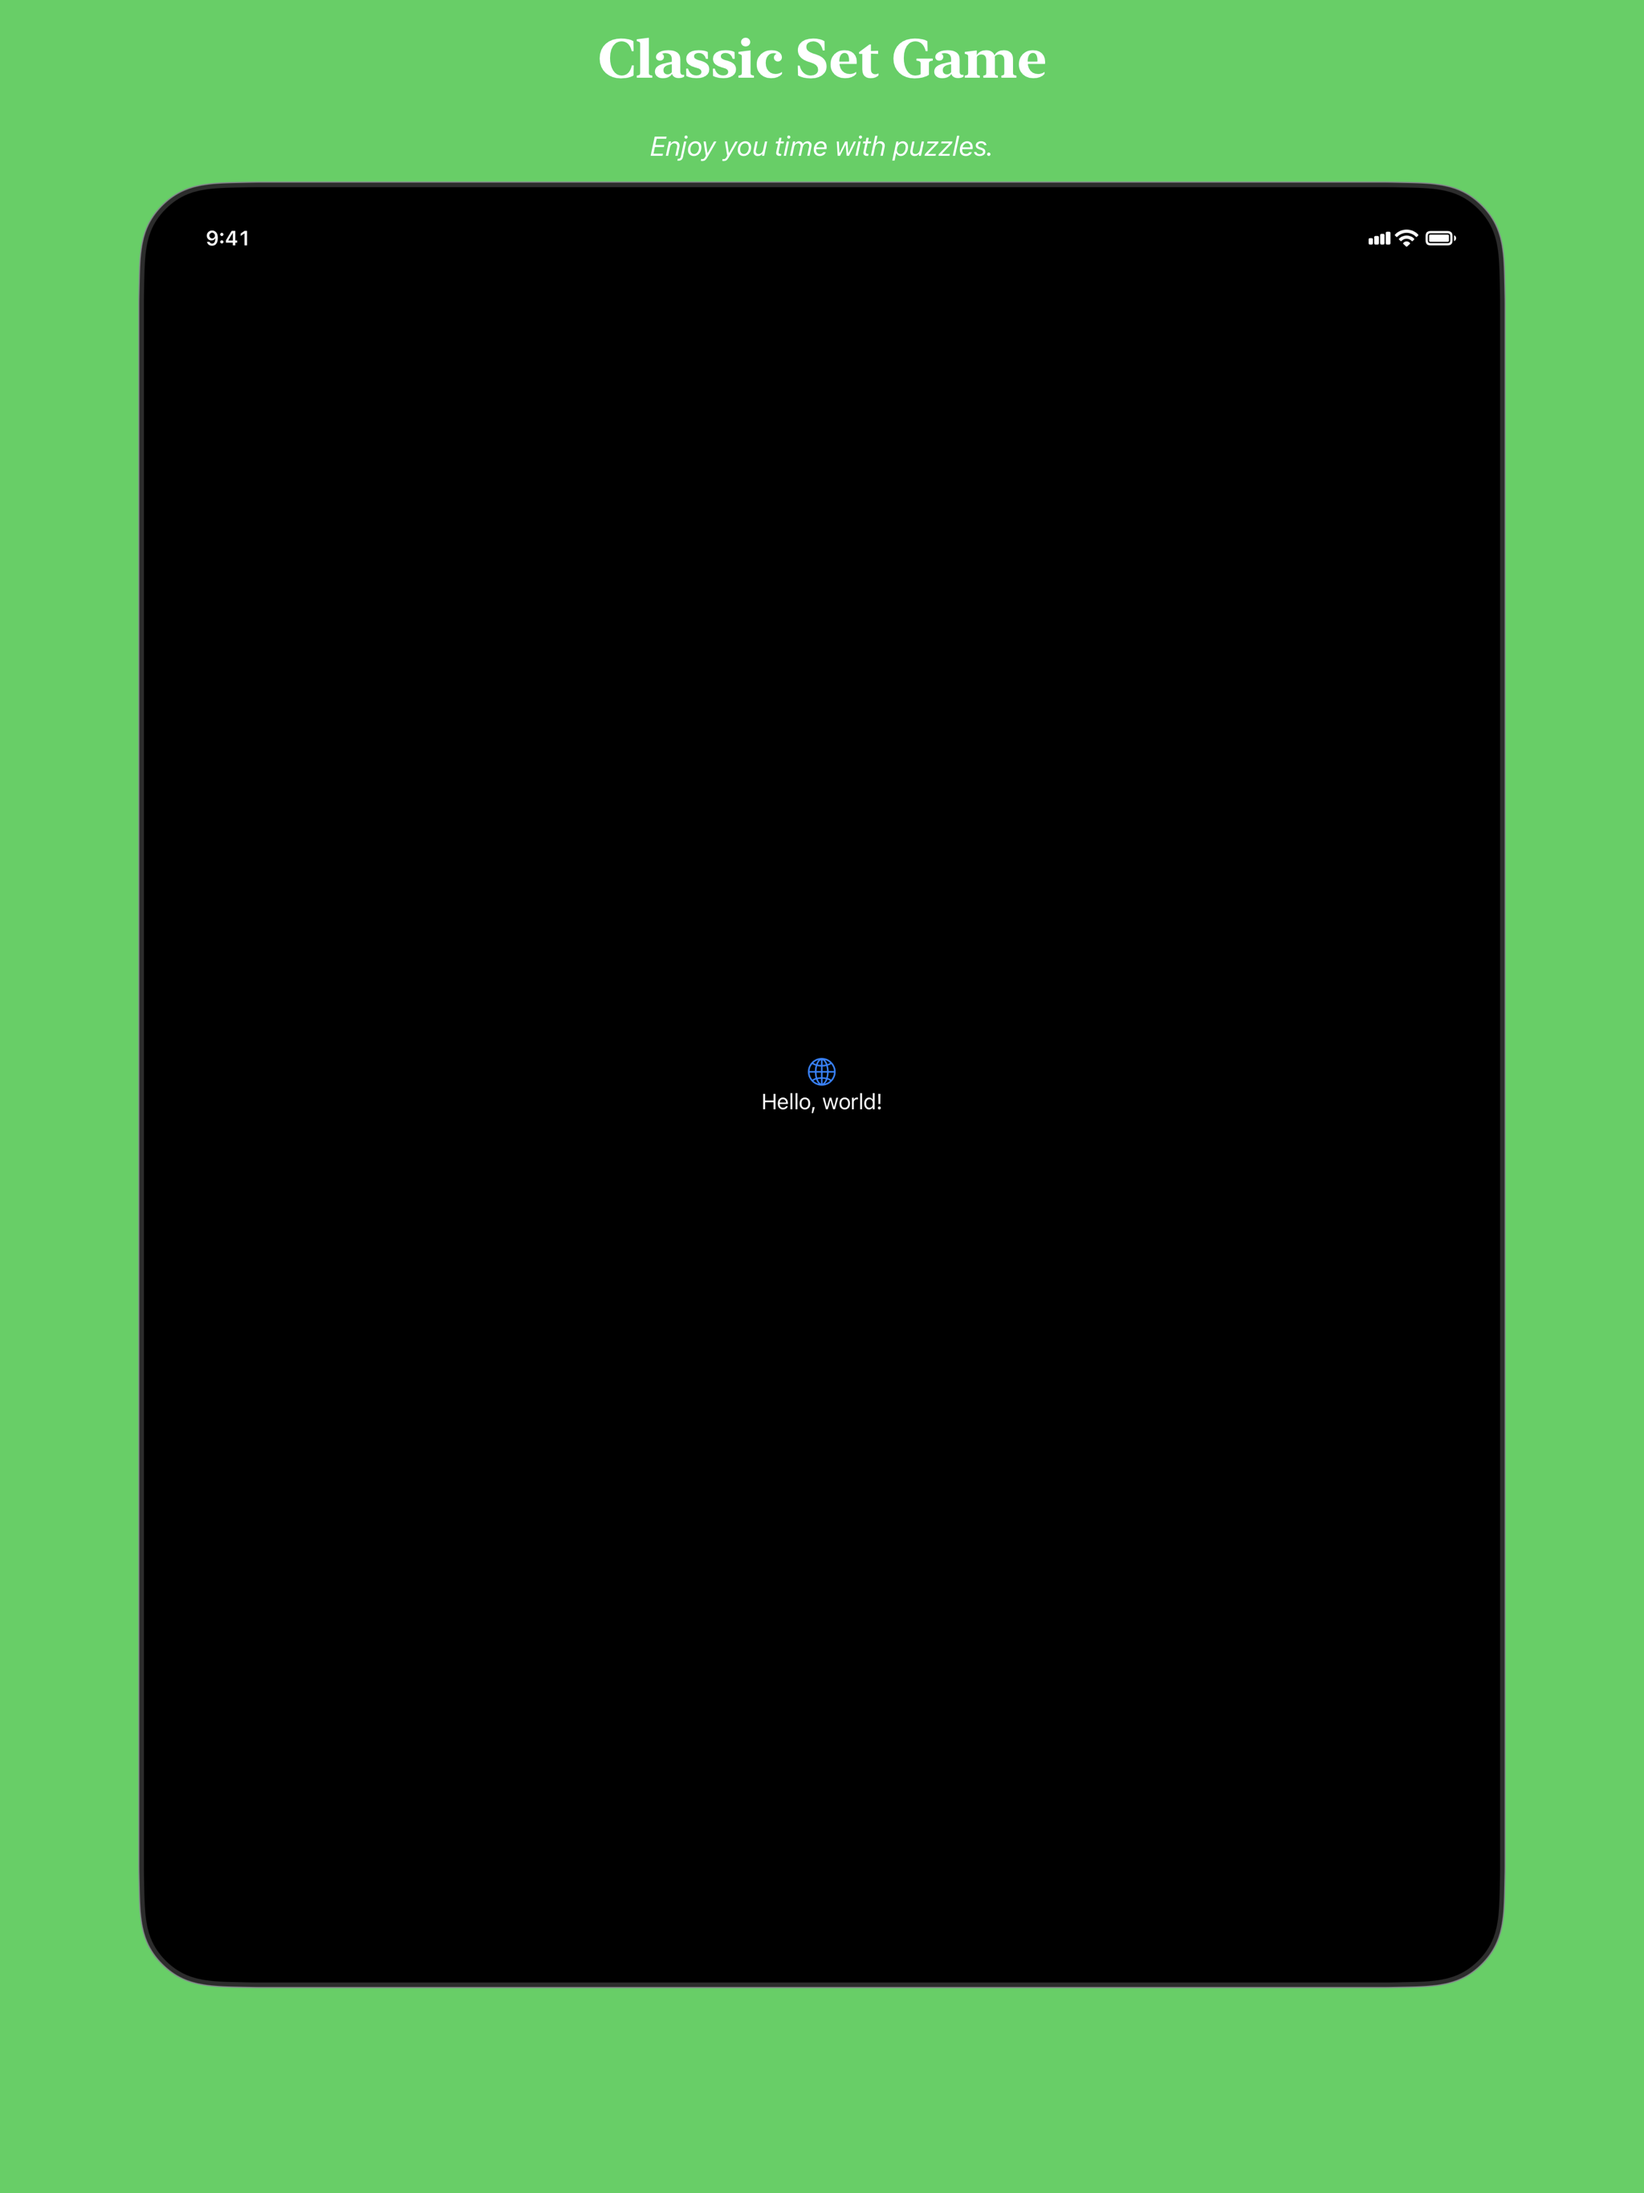
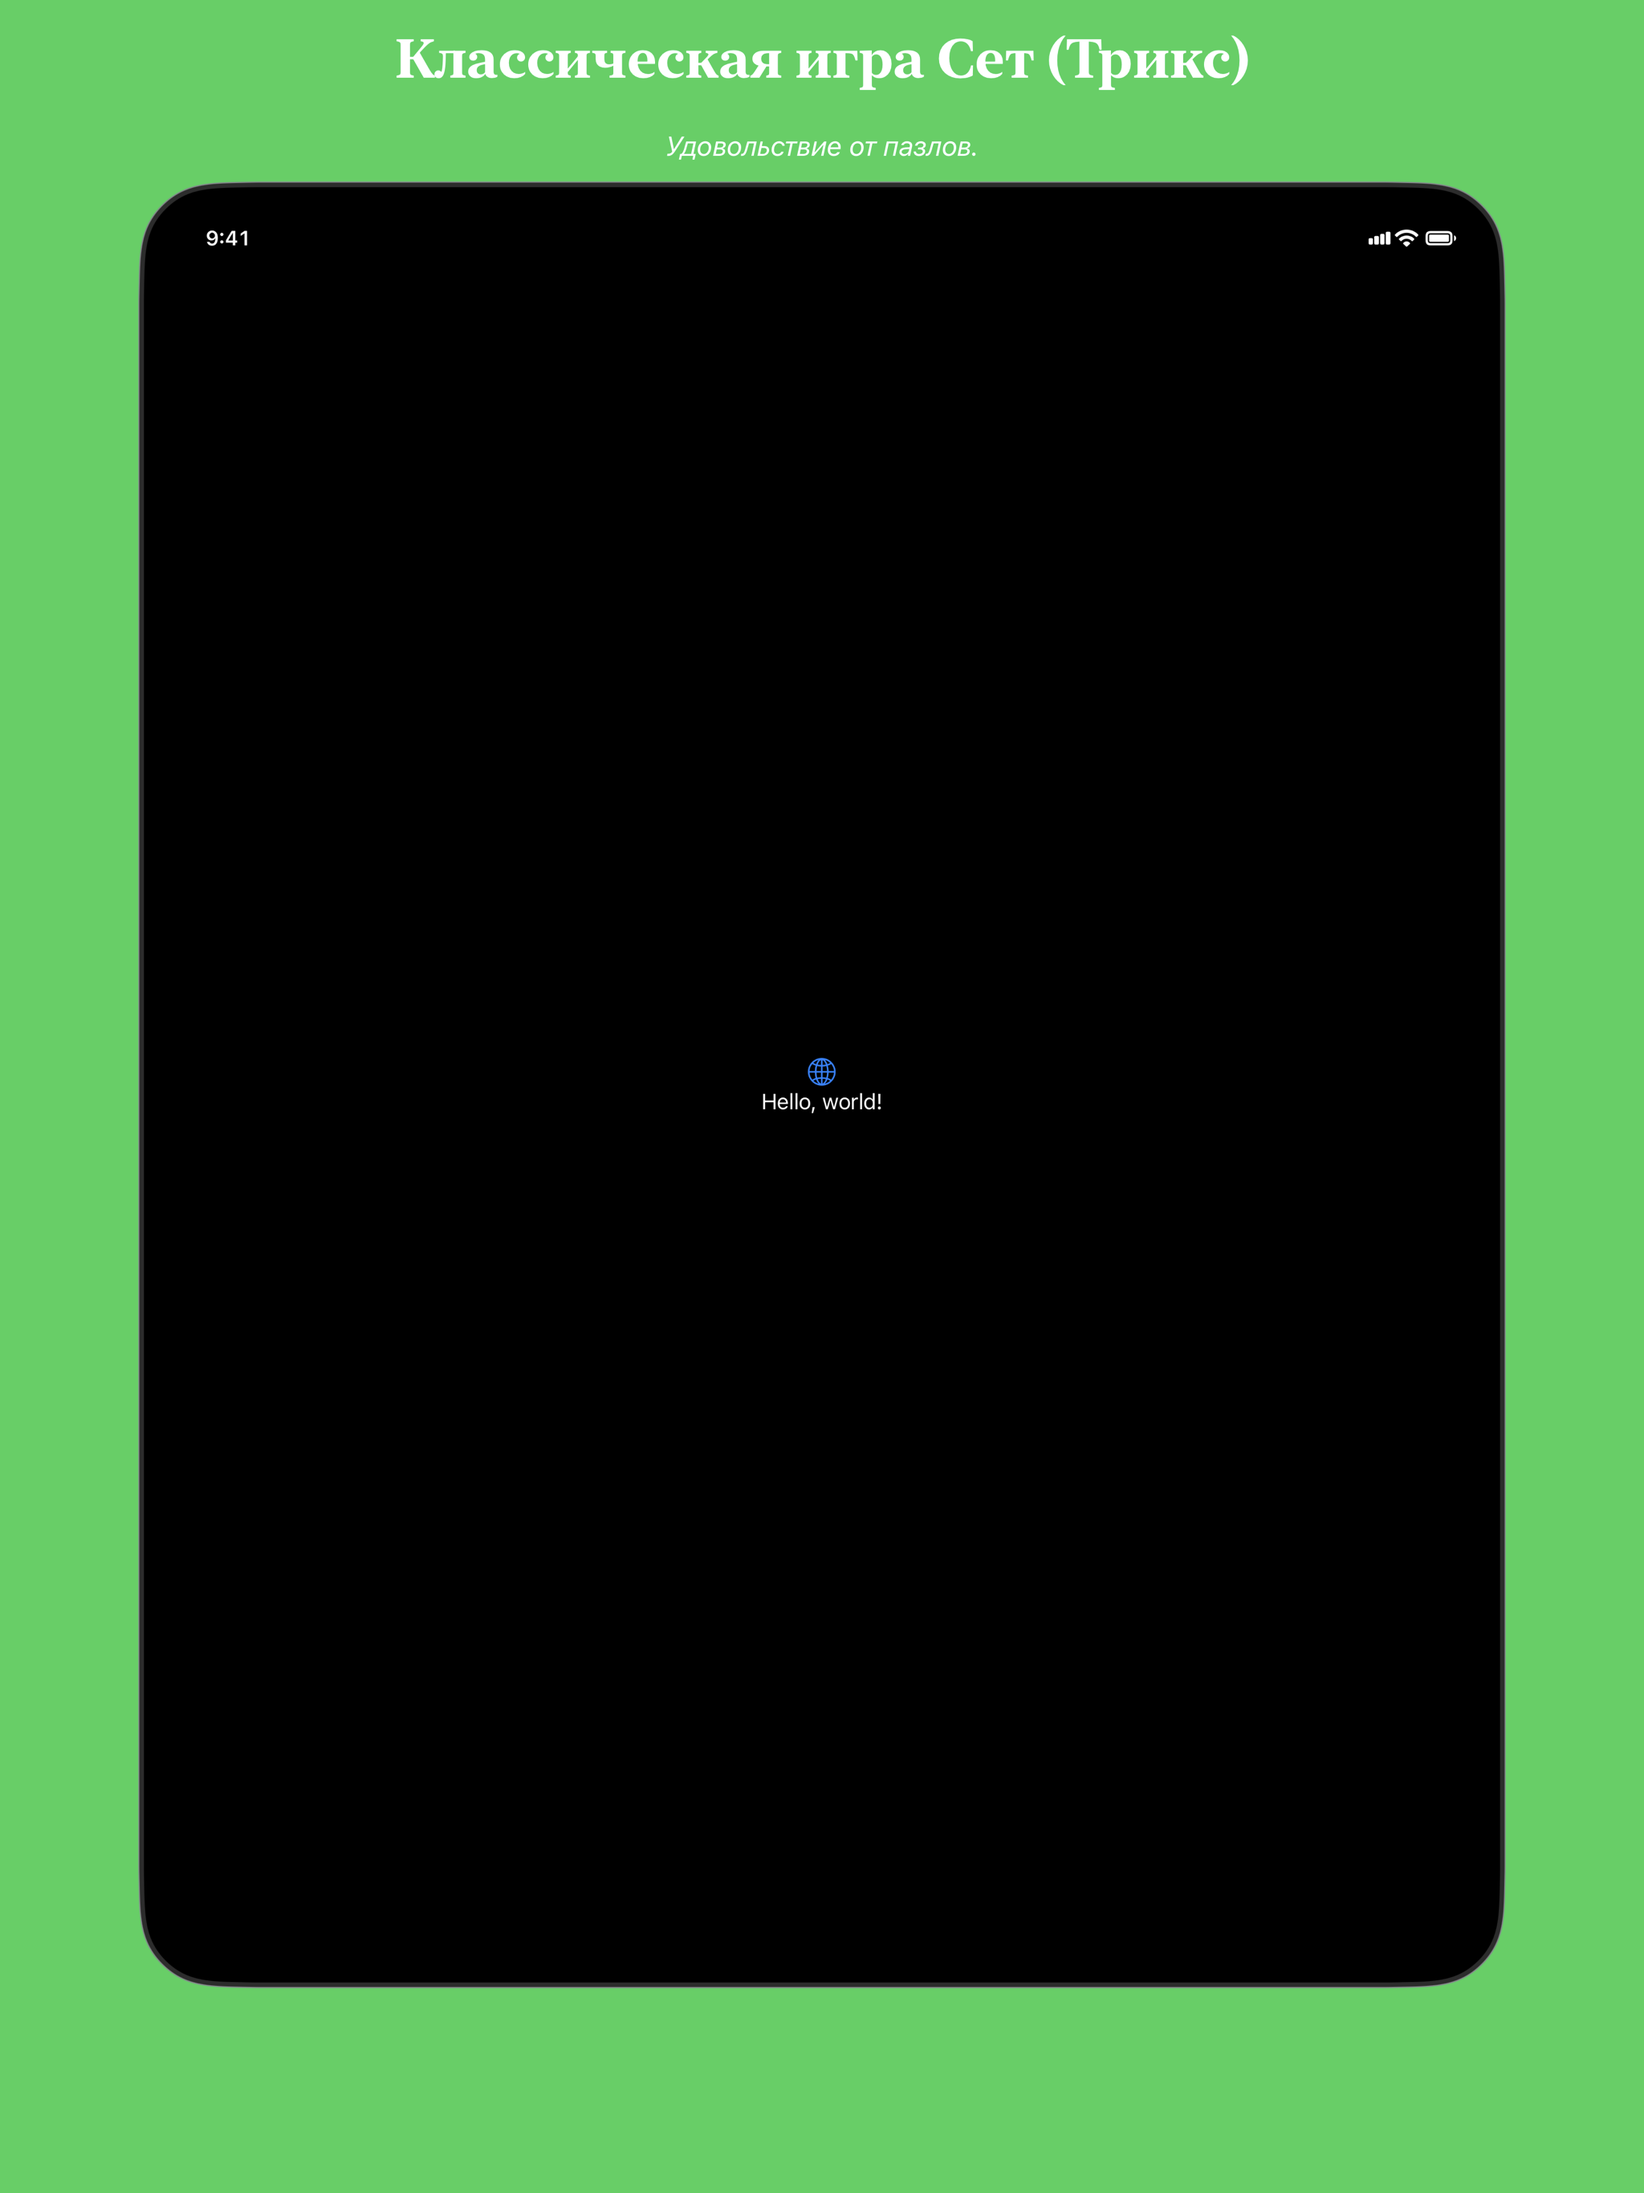
localized screenshots

Changed region(s): [[0.25, 0.0, 0.75, 0.0622], [0.4062, 0.0622, 0.5938, 0.0933]]

diff --git a/SetGame/AppStorePreviews/Marketing1Preview.swift b/SetGame/AppStorePreviews/Marketing1Preview.swift
@@ -25,12 +25,12 @@ struct Marketing1Preview: View {
     
     private func marketing() -> some View {
         VStack {
-            Text("Classic Set Game")
+            Text("MARKETING1_TITLE")
                 .font(.largeTitle.bold())
                 .fontDesign(.serif)
                 .padding()
             
-            Text("Enjoy you time with puzzles.")
+            Text("MARKETING1_SUBTITLE")
                 .italic()
         }
     }
